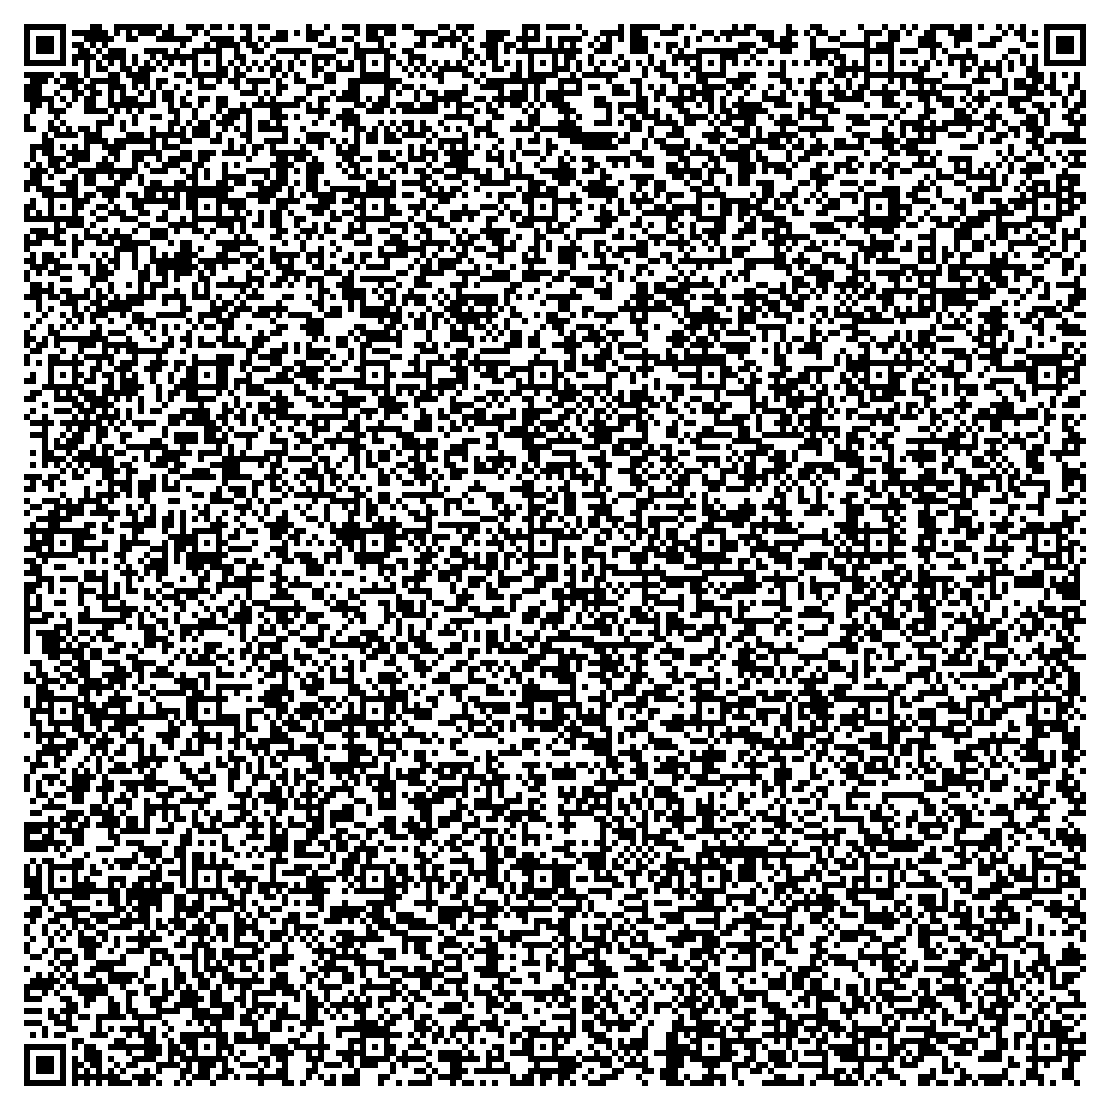
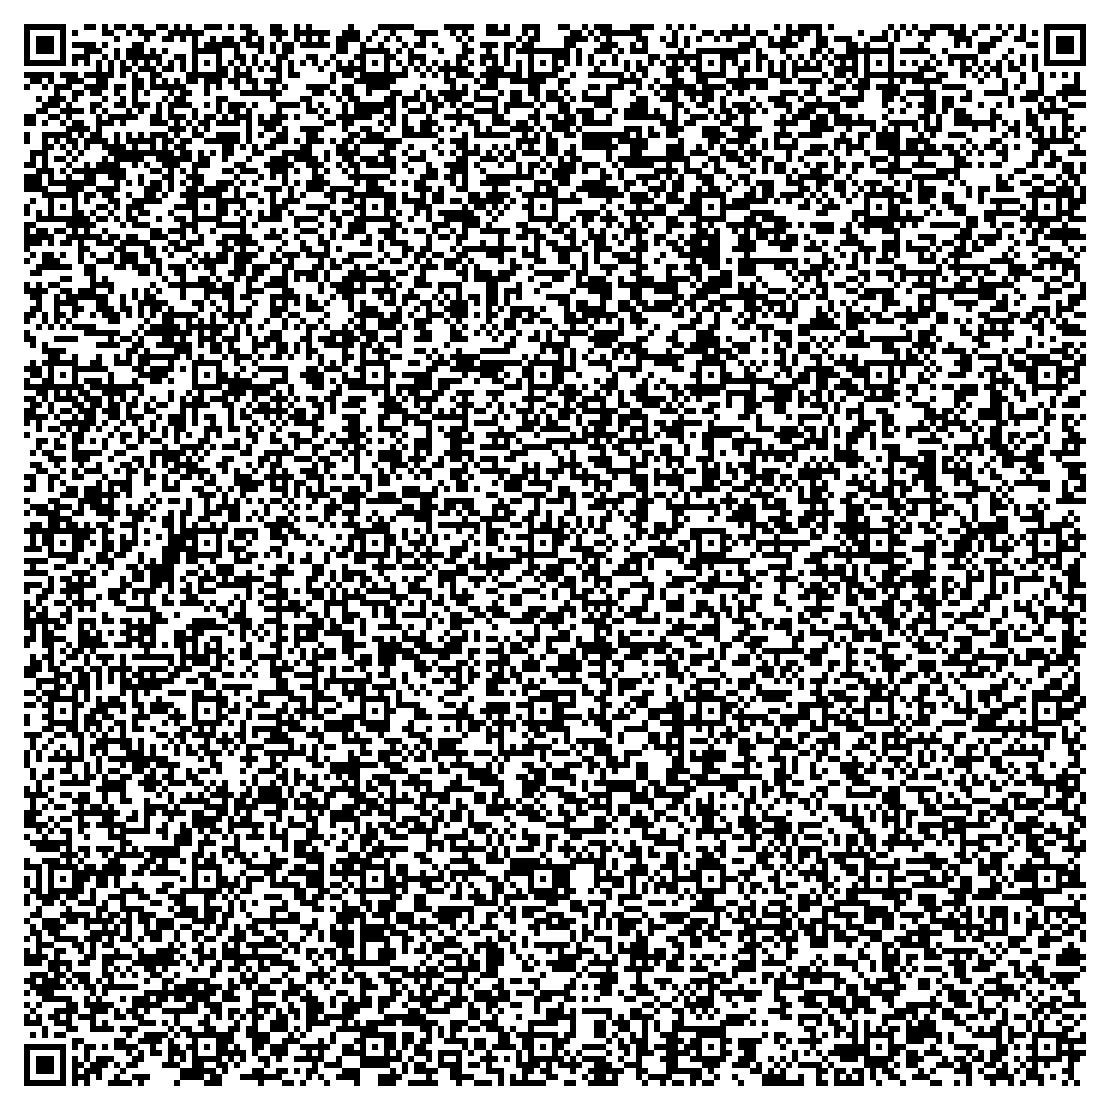
Make controls smoother

Changed region(s): [[0.0, 0.0, 0.9802, 0.9802]]

diff --git a/index.html b/index.html
@@ -1,1 +1,1 @@
-<style>#controls,#u,body,canvas{margin:10px;text-align:center;font-family:Arial}canvas{border:solid}</style><h1>Maze</h1><p>Press and hold the WASD keys to navigate through the maze!</p><div id="controls"><label for="d">Difficulty:</label> <select id="d"><option value="e">Easy</option><option value="m" selected="selected">Medium</option><option value="h">Hard</option><option value="i">Impossible</option></select></div><canvas id="m"></canvas><div id="u">Reach the green square!</div><div id="p">Time Left: <span id="b"></span> seconds</div><div id="j">Total Score: <span id="k">0</span></div><script>var s,b,rows,m,w,n,p,j,g,v,z=(id=e=>document.getElementById(e))("m"),e=z.getContext("2d"),d=id("d"),a=id("b"),c=id("k"),k=[[0,-1],[0,1],[-1,0],[1,0]];function h(){z.width=z.height=rows*s,e.clearRect(0,0,z.width,z.height),m.map((t,r)=>t.map((t,n)=>{e.fillStyle=t?"black":"white",e.fillRect(n*s,r*s,s,s)})),e.fillStyle="red",e.fillRect(w.x*s,w.y*s,s,s),e.fillStyle="green",e.fillRect(n.x*s,n.y*s,s,s)}function mp(e){let t=w.x,r=w.y;"w"===e?r--:"s"===e?r++:"a"===e?t--:"d"===e&&t++,0<=t&&0<=r&&t<rows&&r<rows&&0===m[r][t]&&(w.x=t,w.y=r,h(),w.x===n.x)&&w.y===n.y&&(clearInterval(p),clearInterval(g),document.getElementById("u").textContent="You reached the goal! :yay:",j+=b,c.textContent=j)}function init(){clearInterval(p),clearInterval(g);var e=d.value;s="e"===e?55:"m"===e?29:"h"===e?15:10,b="e"===e?10:"m"===e?30:"h"===e?60:120,w={x:0,y:0},n={x:(rows="e"===e?11:"m"===e?21:"h"===e?41:61)-1,y:rows-1},j=j||0,m=Array(rows).fill().map(()=>Array(rows).fill(1)),function e(t,n){var r,a;m[n][t]=0;for([r,a]of k.sort(()=>Math.random()-.5)){var l=t+2*r,o=n+2*a;0<=l&&0<=o&&l<rows&&o<rows&&1===m[o][l]&&(m[n+a][t+r]=0,e(l,o))}}(w.x,w.y),m[n.y][n.x]=0,h(),a.textContent=b,document.getElementById("u").textContent="Reach the green square!",p=setInterval(()=>{0<b?(b--,a.textContent=b):(clearInterval(p),document.getElementById("u").textContent="Time's up! Try again.")},1e3)}document.addEventListener("keydown",e=>{v||(v=e.key,g=setInterval(()=>mp(v),50))}),document.addEventListener("keyup",e=>{e.key===v&&(clearInterval(g),v=g=0)}),d.addEventListener("change",init),init()</script>
+<style>#controls,#u,body,canvas{margin:10px;text-align:center;font-family:Arial}canvas{border:solid}</style><h1>Maze</h1><p>Press and hold the WASD keys to navigate through the maze!</p><div id="controls"><label for="d">Difficulty:</label> <select id="d"><option value="e">Easy</option><option value="m" selected="selected">Medium</option><option value="h">Hard</option><option value="i">Impossible</option></select></div><canvas id="m"></canvas><div id="u">Reach the green square!</div><div id="p">Time Left: <span id="b"></span> seconds</div><div id="j">Total Score: <span id="k">0</span></div><script>var s,b,rows,m,w,n,p,j,pressedKeys=new Set,z=(id=e=>document.getElementById(e))("m"),e=z.getContext("2d"),d=id("d"),a=id("b"),c=id("k"),k={w:[0,-1],s:[0,1],a:[-1,0],d:[1,0]};function h(){z.width=z.height=rows*s,e.clearRect(0,0,z.width,z.height),m.map((t,r)=>t.map((t,n)=>{e.fillStyle=t?"black":"white",e.fillRect(n*s,r*s,s,s)})),e.fillStyle="red",e.fillRect(w.x*s,w.y*s,s,s),e.fillStyle="green",e.fillRect(n.x*s,n.y*s,s,s)}function mp(){pressedKeys.forEach(key=>{let t=w.x,r=w.y,[dx,dy]=k[key]||[],t2=t+dx,r2=r+dy;0<=t2&&0<=r2&&t2<rows&&r2<rows&&0===m[r2][t2]&&(w.x=t2,w.y=r2)}),h(),w.x===n.x&&w.y===n.y&&(clearInterval(p),clearInterval(j),document.getElementById("u").textContent="You reached the goal! :yay:",c.textContent=(b+=parseInt(c.textContent)))}function init(){clearInterval(p),clearInterval(j);var e=d.value;[s,b,rows]=({e:[55,10,11],m:[29,30,21],h:[15,60,41],i:[10,120,61]})[e=d.value],n={x:rows-1,y:rows-1},w={x:0,y:0},m=Array(rows).fill().map(()=>Array(rows).fill(1)),function e(t,r){m[r][t]=0;Object.values(k).sort(()=>Math.random()-.5).forEach(([dx,dy])=>{var t2=t+2*dx,r2=r+2*dy;0<=t2&&0<=r2&&t2<rows&&r2<rows&&1===m[r2][t2]&&(m[r+dy][t+dx]=0,e(t2,r2))})}(w.x,w.y),m[n.y][n.x]=0,h(),a.textContent=b,document.getElementById("u").textContent="Reach the green square!",p=setInterval(()=>{b>0?(b--,a.textContent=b):(clearInterval(p),document.getElementById("u").textContent="Time's up! Try again.")},1e3),j=setInterval(mp,50)}["keydown","keyup"].map(e=>document.addEventListener(e,k=>pressedKeys[`${e==="keydown"?"add":"delete"}`](k.key))),d.onchange=init,init()</script>

diff --git a/README.md b/README.md
@@ -10,11 +10,11 @@ QR Maze is a fun little game I developed, designed to fit entirely within the si
 
 Scan this QR code:
 
-![QR code](https://cloud-5csx4jo1a-hack-club-bot.vercel.app/0qr.png)
+![QR code](qr.png)
 
 or paste this into your browser:
 ```
[2 lines of base64/hex data omitted]
 ```
 
 or just go this [link](https://mengshin.me/maze/).
